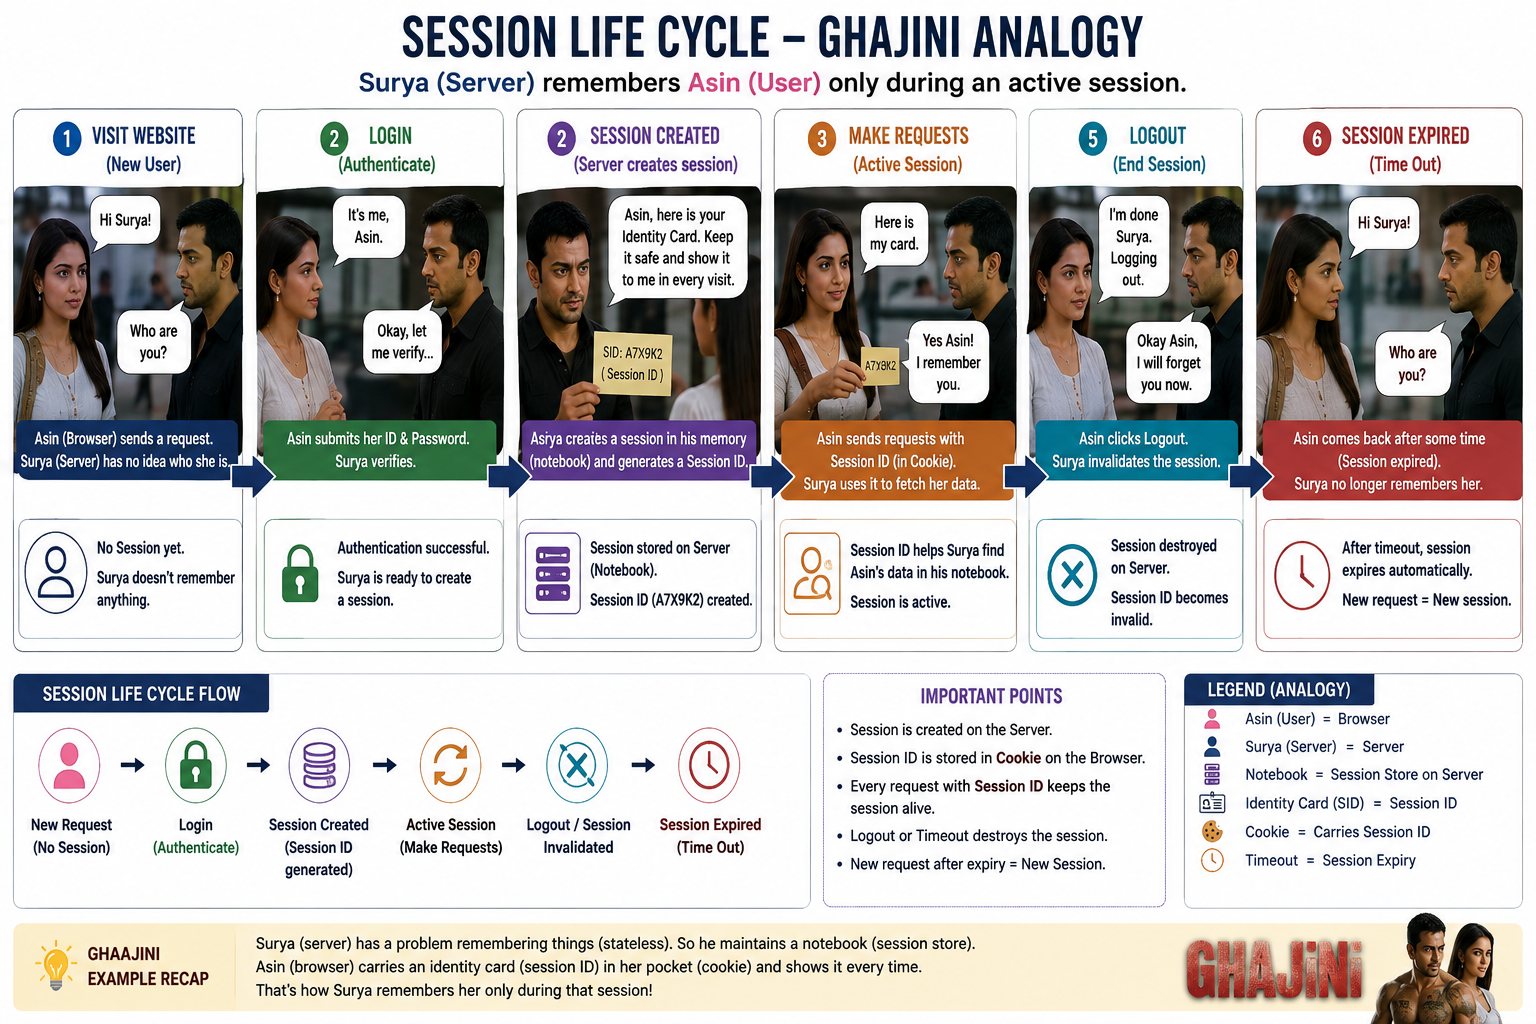
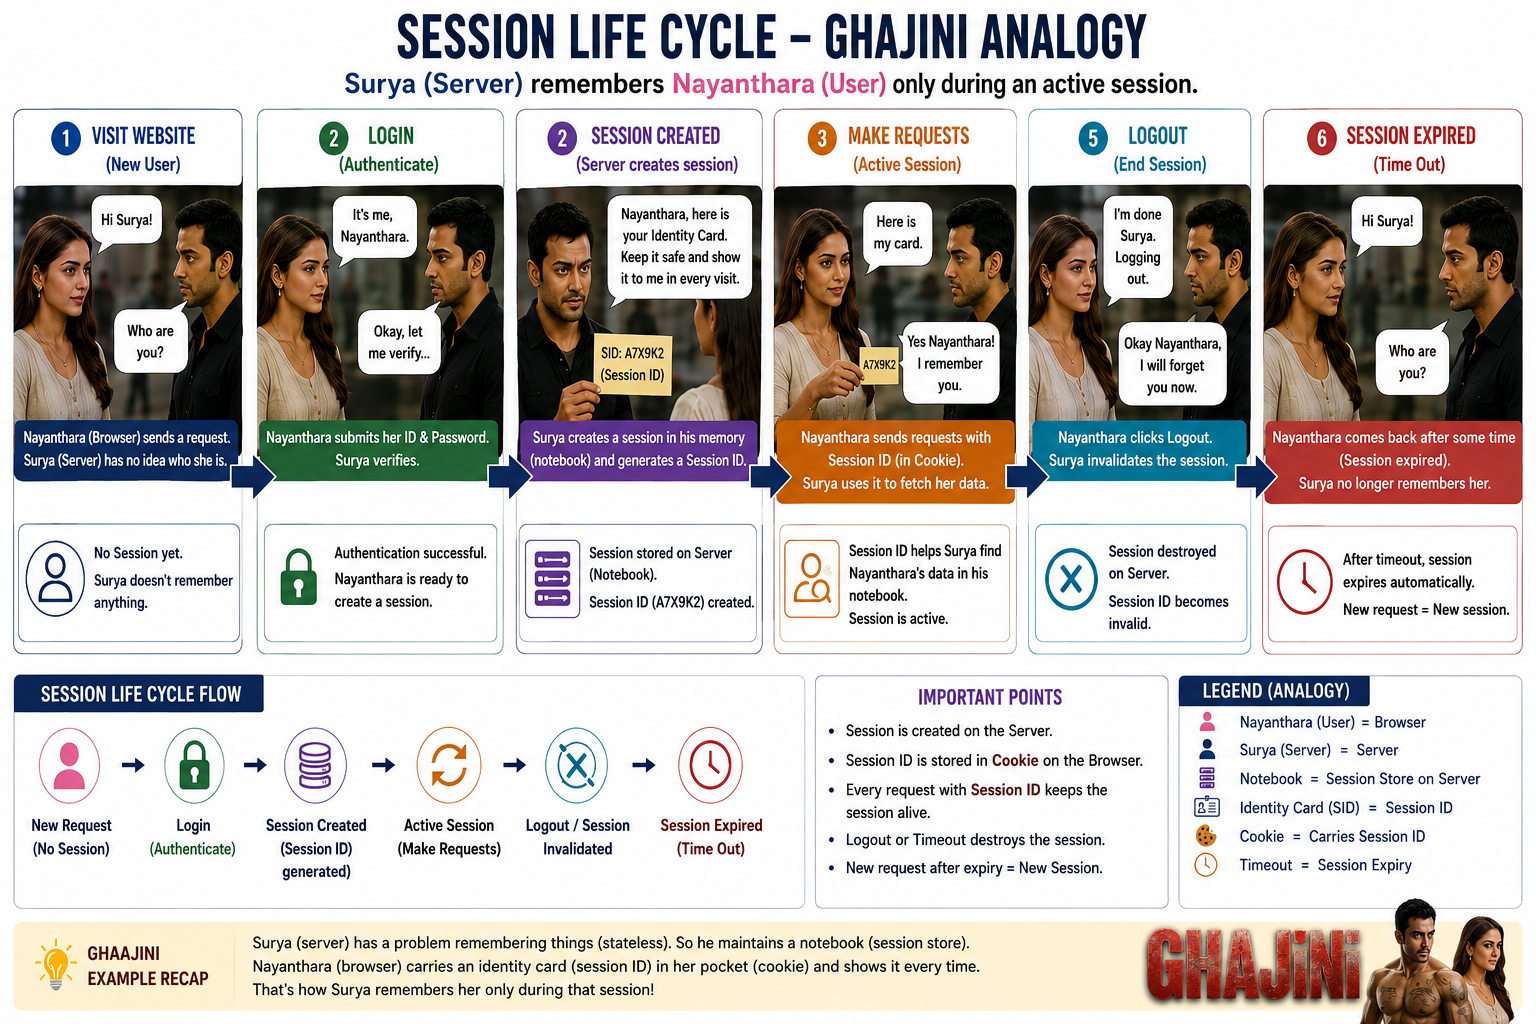
Replaced asin  with nayan

diff --git a/WebFundamentals/client_server_communication/session-lifecyle.html b/WebFundamentals/client_server_communication/session-lifecyle.html
@@ -253,7 +253,7 @@
             <span class="badge">For Freshers • HTTP + Sessions</span>
             <h1>Session Lifecycle — explained using the Ghajini analogy 🎬</h1>
             <p class="subtitle">
-                Imagine Asin meets Surya. Surya cannot remember previous conversations, so they need a
+                Imagine Nayan meets Surya. Surya cannot remember previous conversations, so they need a
                 <strong>session</strong> to maintain continuity across multiple HTTP requests.
             </p>
 
@@ -261,7 +261,7 @@
                 <div class="card">
                     <h3>🎬 Movie analogy</h3>
                     <p>Think of Surya keeping a small <strong>memory notebook</strong>.</p>
-                    <p>When Asin first meets him, he creates an identity number for their interaction and stores useful
+                    <p>When Nayan first meets him, he creates an identity number for their interaction and stores useful
                         information against that number.</p>
                 </div>
                 <div class="card">
@@ -275,7 +275,7 @@
 
             <div class="infographic-box">
                 <img src="session-lifecycle.png" alt="Session Lifecycle Ghajini Analogy Diagram" class="hero-img">
-                <p class="img-disclaimer">📌 <b>Note:</b> This diagram is for illustration purposes only. The character portraits are AI-generated representations and are not real photos of Surya and Asin.</p>
+                <p class="img-disclaimer">📌 <b>Note:</b> This diagram is for illustration purposes only. The character portraits are AI-generated representations and are not real photos of Surya and Nayan.</p>
             </div>
         </section>
 
@@ -317,7 +317,7 @@
 
             <div class="grid" style="margin-top:18px">
                 <div class="box">
-                    <h3>🌐 Browser — Asin</h3>
+                    <h3>🌐 Browser — Nayan</h3>
                     <div class="code" id="browser">No session ID stored yet.</div>
                 </div>
                 <div class="box">
@@ -367,7 +367,7 @@
 
             <div class="infographic-box" style="margin-bottom: 20px;">
                 <img src="session-lifecycle.png" alt="Session Lifecycle Complete Diagram" class="hero-img">
-                <p class="img-disclaimer">📌 <b>Note:</b> This diagram is for illustration purposes only. The character portraits are AI-generated representations and are not real photos of Surya and Asin.</p>
+                <p class="img-disclaimer">📌 <b>Note:</b> This diagram is for illustration purposes only. The character portraits are AI-generated representations and are not real photos of Surya and Nayan.</p>
             </div>
 
             <div class="explain">
@@ -410,11 +410,11 @@
             loggedIn = true;
             req = 0;
             document.getElementById("browser").textContent = "Login request sent.\nWaiting for Session ID...";
-            document.getElementById("server").innerHTML = "<strong>Surya:</strong> Login successful.<br>Created a new session for Asin.";
+            document.getElementById("server").innerHTML = "<strong>Surya:</strong> Login successful.<br>Created a new session for Nayan.";
             document.getElementById("cookie").innerHTML = "<strong>Cookie:</strong> session_id=" + sessionId + "<br><small>Browser stores this ID.</small>";
             document.getElementById("browser").textContent = "Cookie stored:\nsession_id=" + sessionId;
             log("Server → Browser: Set-Cookie: session_id=" + sessionId);
-            log("Server: Session created → user=Asin, loggedIn=true");
+            log("Server: Session created → user=Nayan, loggedIn=true");
             step(3);
         }
 
@@ -427,9 +427,9 @@
             req++;
             step(4);
             document.getElementById("browser").textContent = "GET /profile\nCookie: session_id=" + sessionId;
-            document.getElementById("server").innerHTML = "<strong>Surya:</strong> Found session <b>" + sessionId + "</b>.<br>Welcome back, Asin!<br>Request #" + req + " understood.";
+            document.getElementById("server").innerHTML = "<strong>Surya:</strong> Found session <b>" + sessionId + "</b>.<br>Welcome back, Nayan!<br>Request #" + req + " understood.";
             log("Browser → Server: GET /profile + session_id=" + sessionId);
-            log("Server: Looks up " + sessionId + " → recognizes Asin → sends response");
+            log("Server: Looks up " + sessionId + " → recognizes Nayan → sends response");
         }
 
         function logout() {
@@ -441,7 +441,7 @@
             const old = sessionId;
             loggedIn = false;
             sessionId = null;
-            document.getElementById("server").innerHTML = "<strong>Surya:</strong> Session " + old + " has been destroyed/invalidated.<br>Asin is no longer logged in.";
+            document.getElementById("server").innerHTML = "<strong>Surya:</strong> Session " + old + " has been destroyed/invalidated.<br>Nayan is no longer logged in.";
             document.getElementById("browser").textContent = "Cookie cleared/expired.\nNo active Session ID.";
             document.getElementById("cookie").textContent = "No active session cookie.";
             log("Browser → Server: Logout request with " + old);

diff --git a/WebFundamentals/client_server_communication/http_stateless_ghazini_demo.html b/WebFundamentals/client_server_communication/http_stateless_ghazini_demo.html
@@ -272,7 +272,7 @@
             <span class="badge">For Freshers • HTTP Basics</span>
             <h1>HTTP is Stateless — explained with a simple movie analogy 🎬</h1>
             <p class="subtitle">
-                Imagine Surya and Asin from <b>Ghajini</b> trying to communicate.
+                Imagine Surya and Nayan from <b>Ghajini</b> trying to communicate.
                 The analogy helps us understand why a web server does not automatically remember every request.
             </p>
 
@@ -280,10 +280,10 @@
                 <div class="card">
                     <h3>🎬 Movie analogy</h3>
                     <p>
-                        Surya and Asin meet and exchange information. But imagine that after every interaction,
+                        Surya and Nayan meet and exchange information. But imagine that after every interaction,
                         Surya forgets the previous conversation.
                     </p>
-                    <p><b>So every time Asin meets him, she has to provide some information again.</b></p>
+                    <p><b>So every time Nayan meets him, she has to provide some information again.</b></p>
                 </div>
                 <div class="card">
                     <h3>🌐 HTTP analogy</h3>
@@ -297,7 +297,7 @@
 
             <div class="infographic-box">
                 <img src="stateless_ghazini-demo.png" alt="HTTP Stateless Communication Ghajini Analogy Diagram" class="hero-img">
-                <p class="img-disclaimer">📌 <b>Note:</b> This diagram is for illustration purposes only. The character portraits are AI-generated representations and are not real photos of Surya and Asin.</p>
+                <p class="img-disclaimer">📌 <b>Note:</b> This diagram is for illustration purposes only. The character portraits are AI-generated representations and are not real photos of Surya and Nayan.</p>
             </div>
         </section>
 
@@ -337,7 +337,7 @@
             <div class="cookie">
                 <h3>Cookie = a small piece of information stored by the browser</h3>
                 <p>
-                    Think of it like Asin giving Surya a small identity card:
+                    Think of it like Nayan giving Surya a small identity card:
                     <b>“When you see this ID, remember that this is me.”</b>
                 </p>
 
@@ -379,7 +379,7 @@
             
             <div class="infographic-box">
                 <img src="stateless_ghazini-demo.png" alt="HTTP Stateless vs Cookie Infographic Summary" class="hero-img">
-                <p class="img-disclaimer">📌 <b>Note:</b> This diagram is for illustration purposes only. The character portraits are AI-generated representations and are not real photos of Surya and Asin.</p>
+                <p class="img-disclaimer">📌 <b>Note:</b> This diagram is for illustration purposes only. The character portraits are AI-generated representations and are not real photos of Surya and Nayan.</p>
             </div>
 
             <div class="takeaway">
